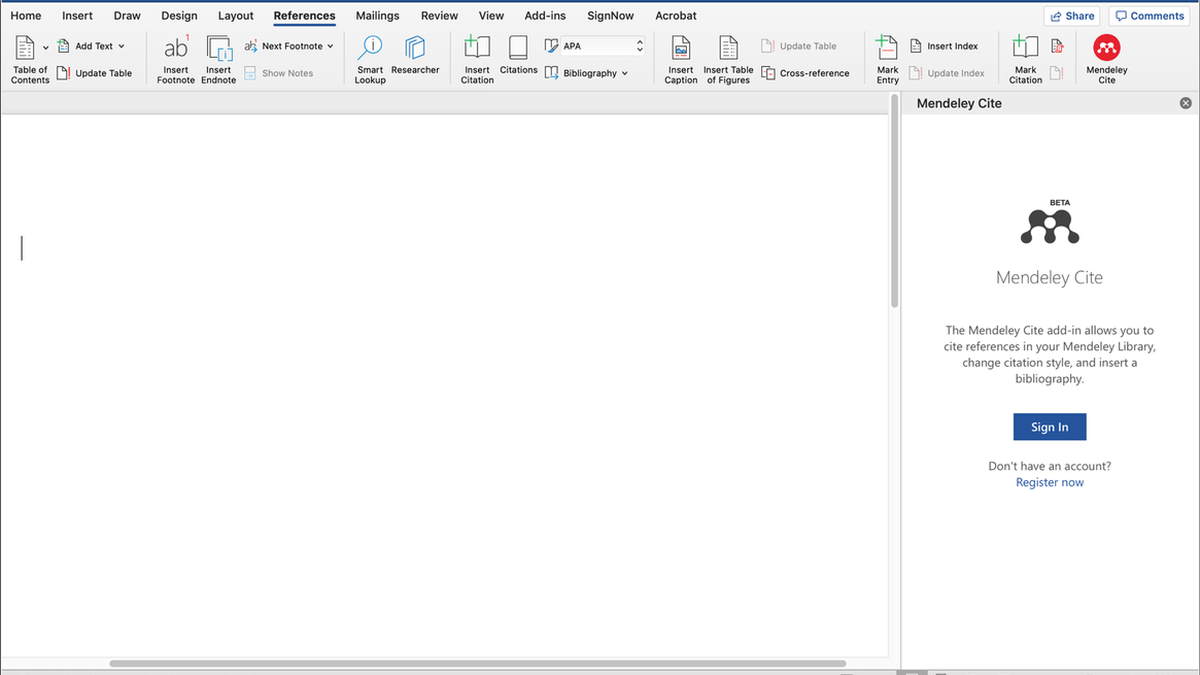
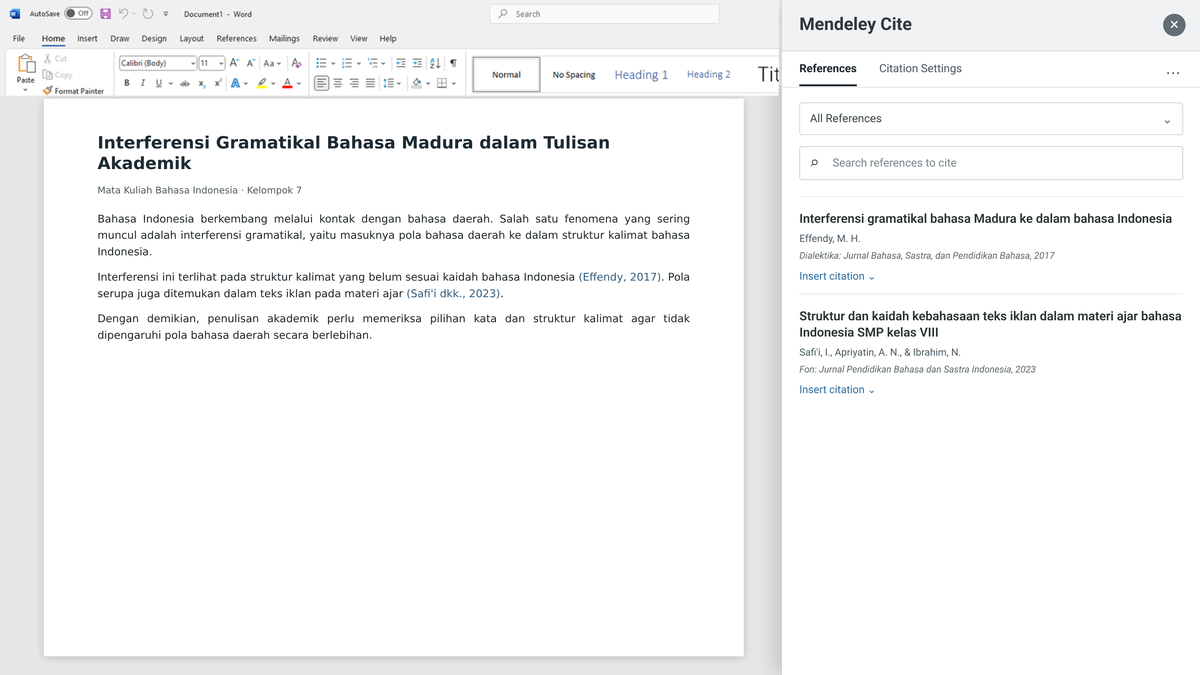
fix: rapikan crop screenshot dan animasi pill penutup

diff --git a/build.py b/build.py
@@ -286,7 +286,7 @@ for i in range(1,TOTAL+1):
         anim(c,VIN,'withPrevious',500)
     else:
         anim(c,VIN,'afterPrevious',500)
-    if i in (5,8,12):anim(f'/slide[{i}]/shape[{1 if i==12 else pill}]',PDOWN,'withPrevious',500,easein=30,easeout=50)
+    if i in (5,8,12,13,14):anim(f'/slide[{i}]/shape[{1 if i in (12,13,14) else pill}]',PDOWN,'withPrevious',500,easein=30,easeout=50)
 # --- bangun ---
 if n!=TOTAL:raise ValueError(f'jumlah slide {n}, seharusnya {TOTAL}')
 json.dump(list(specs.values()),open('specs.json','w'))
@@ -300,4 +300,5 @@ if r.returncode:
 else:
     print(r.stdout[-1500:],r.stderr[-800:])
 r.check_returncode()
+subprocess.run(['officecli','close',OUT],check=True)
 subprocess.run([sys.executable,'retarget_group_animations.py',OUT],check=True)

diff --git a/test_check_anim.py b/test_check_anim.py
@@ -95,11 +95,11 @@ class CheckAnimTest(unittest.TestCase):
         )
         self.assertEqual(
             [(name, path) for name, path, *_ in _spec(13)],
-            [("#s13-content", VIN)],
+            [("#s13-content", VIN), ("#s13-rail-pill", PDOWN)],
         )
         self.assertEqual(
             [(name, path) for name, path, *_ in _spec(14)],
-            [("#s14-content", VIN)],
+            [("#s14-content", VIN), ("#s14-rail-pill", PDOWN)],
         )
 
 

diff --git a/check_anim.py b/check_anim.py
@@ -33,7 +33,7 @@ def _spec(index):
             (f"#s{index}-rail-pill", SIN, 400, 20, 70),
             (content, VIN, 500, 20, 70),
         ]
-    if index in (5, 8, 12):
+    if index in (5, 8, 12, 13, 14):
         return [
             (content, VIN, 500, 20, 70),
             (f"#s{index}-rail-pill", PDOWN, 500, 30, 50),

diff --git a/docs/superpowers/specs/2026-11-12-screenshot-slides-15.md b/docs/superpowers/specs/2026-11-12-screenshot-slides-15.md
@@ -37,7 +37,7 @@ Semua aset disimpan sebagai PNG 1200 x 675 (16:9) di `assets/`.
 | `shot-metadata.png` | `adding_references_4.1b6afdd6.png` | slide 6 |
 | `shot-style.png` | `citation_settings.ad5ff2e1.png` | slide 6, 11 |
 | `shot-bibliography.png` | `help_guide_cite_05.dcfc0068.png` | slide 6, 11 |
-| `shot-source.png` | `reading_and_annotating_1.5d79deea.png` | slide 7 |
+| `shot-source.png` | `reading_and_annotating_2.png` | slide 7 |
 | `shot-citation.png` | `help_guide_cite_10.ca2a4d5e.png` | slide 7 |
 | `shot-bib-menu.png` | `help_guide_cite_05.dcfc0068.png` | slide 7 |
 | `shot-account.png` | `Mendeley_website.PNG` | slide 8 |
@@ -49,7 +49,7 @@ Semua aset disimpan sebagai PNG 1200 x 675 (16:9) di `assets/`.
 | `shot-organize.png` | `searching_your_library_2.fd4049ea.png` | slide 9 |
 | `shot-highlight.png` | `reading_and_annotating_1.5d79deea.png` | slide 10 |
 | `shot-notes.png` | `reading_and_annotating_4.8809ba7d.png` | slide 10 |
-| `shot-addin.png` | `help_guide_cite_02.281a79c9.png` | slide 11 |
+| `shot-addin.png` | `cite_word.png` | slide 11 |
 | `shot-cite.png` | `cite_desktop.5a079955.png` | slide 11 |
 
 Sumber halaman:
